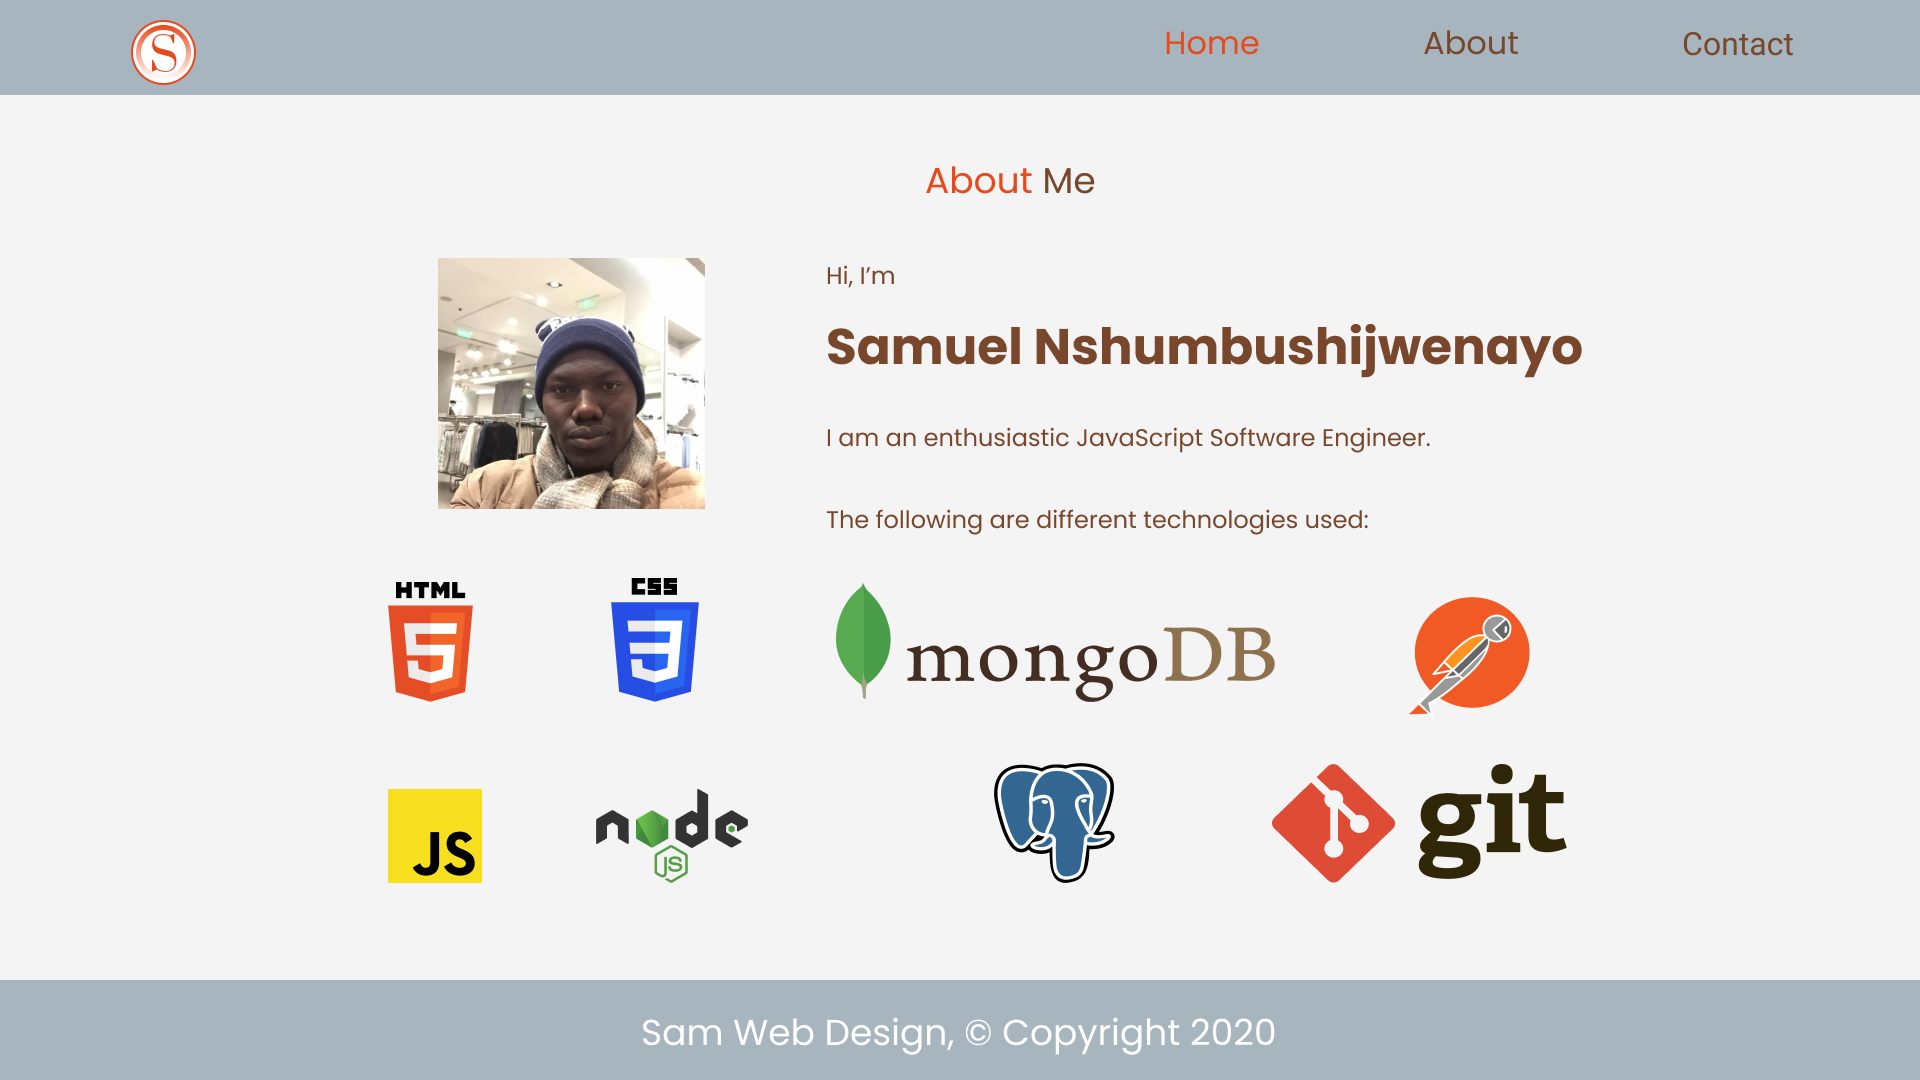
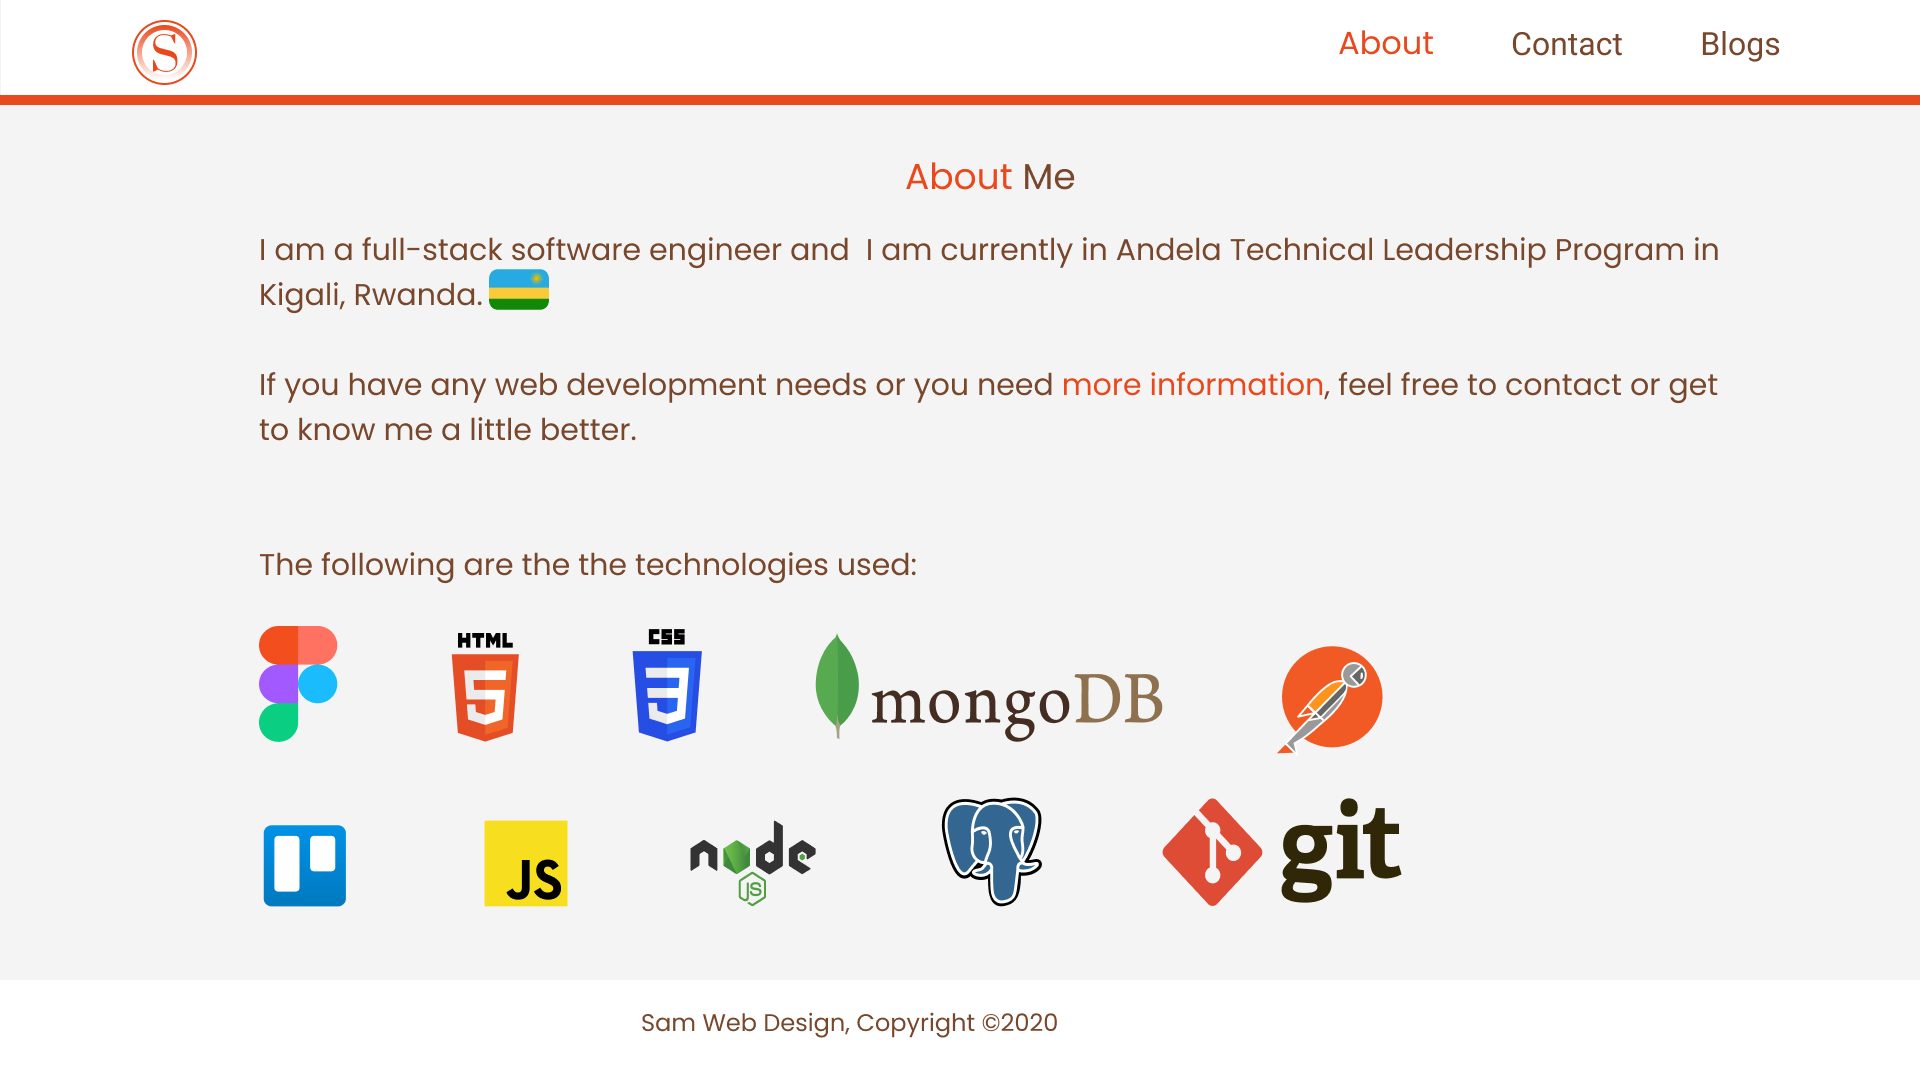
Modified Landing Page and About Page mockups

diff --git a/README.md b/README.md
@@ -1,4 +1,4 @@
 # mybrand
 My portfolio Website
 
-This is the About Page.
+This branch contains mockups.
